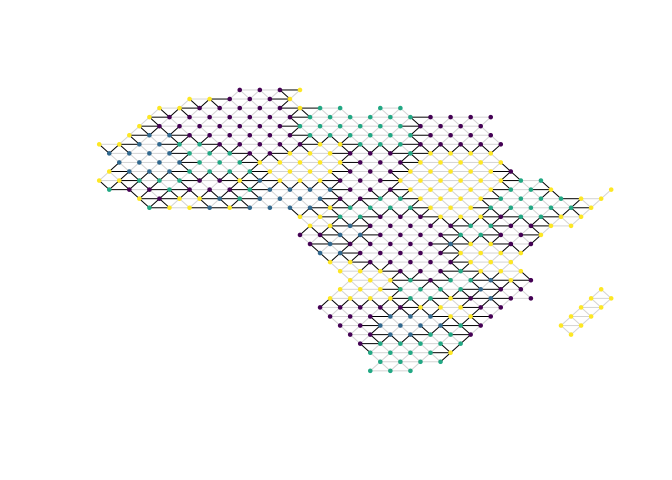
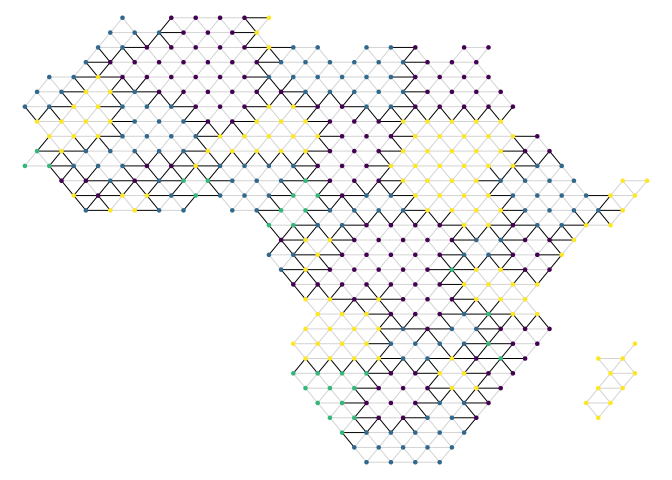
documents and vignette update

Changed region(s): [[0.0312, 0.0312, 0.9688, 0.9688], [0.875, 0.7188, 0.9375, 0.875]]

diff --git a/README.md b/README.md
@@ -2,7 +2,26 @@
 
 ## Introduction
 
+This R-package provides a number of functions to create spatial graph
+data. By providing a set of standard manipulation functions, it aims to
+facilitate the analysis of spatial partitionings such as state
+territories or administrative divisions through the
+[pspm](https://github.com/carl-mc/pspm) package.
+
+When using the SpatialLattice package, please cite:
+
+Müller-Crepon, Carl, Guy Schvitz, Lars-Erik Cederman (2023). Shaping
+States into Nations: The Effects of Ethnic Geography on State Borders.
+*American Journal of Political Science*, conditionally accepted for
+publication.
+
+Please note that we intend this package to be further developed by
+ourselves as well as other members of the community. Please do not
+hesitate to submit issues, contribute directly, or get in touch with us.
+
 ## Installation
+
+Please install the package directly from this github page.
 
 ``` r
 # Download SpatialLattice package
@@ -12,6 +31,13 @@ install_github(repo = "carl-mc/SpatialLattice")
 
 ## Creating spatial graph data
 
+Spatial graphs can take a huge variety of forms. The functions included
+in the package create *planar* graphs, that is graphs that can be drawn
+on a plane such that its edges do not cross each other. The examples
+below produce such spatial lattices to cover the African continent. Each
+graph takes the form of an with an “x” and “y” vertex attribute which
+indicate the vertices spatial location.
+
 ``` r
 # Load some libraries needed below
 library(SpatialLattice)
@@ -20,6 +46,9 @@ library(sp)
 library(cshapes)
 library(sf)
 
+# Set a random seed
+set.seed(1)
+
 # Load country borders in Africa
 africa <- cshp(date = as.Date("2000-01-01"))
 africa <- africa[africa$gwcode %in% c(400:626,651),]
@@ -27,6 +56,11 @@ africa <- as_Spatial(africa)
 ```
 
 ### Regular grid structures
+
+The package implements a number of regular grid structures. It provides
+an interface to create graphs from vertices sampled with a quadratic,
+hexagonal, triangular, and random sampling structure. A function
+facilitates spatial plotting using R base plots.
 
 ``` r
 # Sample grid with hexagonal structure
@@ -42,12 +76,17 @@ print(vertex_attr_names(grid))
 
 ``` r
 # Plot spatial graph
+par(mar = c(0,0,0,0))
 plot_spatial_graph(grid)
 ```
 
 ![](README_files/figure-gfm/unnamed-chunk-3-1.png)<!-- -->
 
 ### Graphs from polygons
+
+We can also create graphs from polygons, where each polygon becomes one
+vertex connected to its direct neighbors. This method is useful when we
+know the smallest constitutive unit of partitions.
 
 ``` r
 # Graph from polygons
@@ -63,13 +102,18 @@ print(vertex_attr_names(poly.graph))
 
 ``` r
 # Plot spatial graph
+par(mar = c(0,0,0,0))
 plot(africa)
-plot_spatial_graph(poly.graph, add = T)
+plot_spatial_graph(poly.graph, add = T, 
+                   edge.width = 1)
 ```
 
 ![](README_files/figure-gfm/unnamed-chunk-4-1.png)<!-- -->
 
 ### Graphs from points
+
+Finally, sometimes we have spatial data on points, which we can
+transform into a planar graph through a Delaunay triangulation.
 
 ``` r
 # Graph from points
@@ -82,14 +126,21 @@ pts <- SpatialPoints(cbind(africa$caplong,
 pts.graph <- graph_from_pts(points = pts)
 
 ## Plot
+par(mar = c(0,0,0,0))
 plot(africa)
 points(pts, col = "red")
-plot_spatial_graph(pts.graph, add = T)
+plot_spatial_graph(pts.graph, add = T, 
+                   edge.width = 1)
 ```
 
 ![](README_files/figure-gfm/unnamed-chunk-5-1.png)<!-- -->
 
 ## Basic manipulation of spatial graphs
+
+Given the spatial nature of the graphs, we can transform the graph into
+its constitutive spatial objects: points and lines. These can then be
+used for all further spatial operations. The functions presented further
+below fundamentally build and wrap around this capability.
 
 ``` r
 # Simple transformations
@@ -106,7 +157,18 @@ E(grid)$length <- geosphere::lengthLine(lines) / 1000
 
 ## Adding data to spatial graphs
 
+In order to analyze such planar graphs, we likely want to add spatial
+data from different sources and formats to the graph. The following
+section introduces the relevant functions to do so.
+
 ### Adding data from Spatial Polygons
+
+Much spatial data is encoded in the form of polygons (as, e.g., the
+above data). The function intersects polygons with our graph and returns
+for each vertex the relevant polygon ID it intersect with. This ID
+allows transferring all polygon-level data to the graph’s vertices.
+Binary differences between vertex attributes can then be encoded on
+edges using the function.
 
 ``` r
 # Adding poly data to spatial graphs
@@ -133,6 +195,15 @@ plot_spatial_graph(grid,
 
 ### Adding data from spatial lines
 
+Some partitionings maybe affected by spatial lines – e.g. rivers. We can
+intersect them with the edges of our graph and encode some of their
+characteristics in the following manner. Note that, depending on
+theoretical nature of the modelled process, we may only want to count
+intersections between edges and lines which are uneven in number, since
+even numbers of intersections result in the edge not actually crossing a
+line: if you cross the same river twice, you arrive back at the same
+side.
+
 ``` r
 # Adding line data to spatial graphs
 
@@ -143,12 +214,14 @@ gw.borders <- SpatialLinesDataFrame(gw.borders,
                                     match.ID = F)
 
 ## From polygons
-E(grid)$crosses.border <- lines2graph(gw.borders, grid, aggvar = "is.border",
+E(grid)$crosses.border <- lines2graph(gw.borders, grid, 
+                                      aggvar = "is.border",
                                aggfun = max, 
                                na.val = 0,
                                only.uneven = TRUE)
 
 ## Plot borders on grid
+par(mar = c(0,0,0,0))
 plot_spatial_graph(grid, 
                    vertex.color = gwcode.col, vertex.size = .5,
                    edge.color = ifelse(E(grid)$crosses.border == 1, "black", "lightgrey"),
@@ -158,6 +231,10 @@ plot_spatial_graph(grid,
 ![](README_files/figure-gfm/unnamed-chunk-8-1.png)<!-- -->
 
 ### Adding data from a spatial raster
+
+Lastly, other data such as elevation or population densities come in the
+form of spatial raster data. We can use the following functionalities to
+aggregate raster data onto the edges (or vertices) of our graph.
 
 ``` r
 # Adding raster data to spatial graphs
@@ -187,6 +264,11 @@ plot_spatial_graph(grid,
 
 ## Analyzing Spatial Partitionings with pspm
 
+Finally, with a graph that encodes a partitioning (in our case here,
+into state territories) as well as edge-level predictors, we can
+estimate a Probabilistic Spatial Partition Model, described
+[here](https://github.com/carl-mc/pspm).
+
 ``` r
 # Analyze raster with PSPM
 library(pspm)
@@ -197,15 +279,15 @@ summary(model)
 
     ## --------------------------------------------
     ## Maximum Likelihood estimation
-    ## BFGS maximization, 31 iterations
+    ## BFGS maximization, 53 iterations
     ## Return code 0: successful convergence 
-    ## Log-Likelihood: -198.0226 
+    ## Log-Likelihood: -182.1888 
     ## 3  free parameters
     ## Estimates:
-    ##           Estimate Std. error t value Pr(> t)
-    ## Constant -2.353742   1.575533  -1.494   0.135
-    ## length    0.004134   0.005570   0.742   0.458
-    ## rand.r    0.237885   0.443821   0.536   0.592
+    ##            Estimate Std. error t value Pr(> t)
+    ## Constant -1.3317049  2.7804815  -0.479   0.632
+    ## length   -0.0004219  0.0101131  -0.042   0.967
+    ## rand.r    0.4967638  0.5234226   0.949   0.343
     ## --------------------------------------------
 
 ## Feedback, comments, questions
